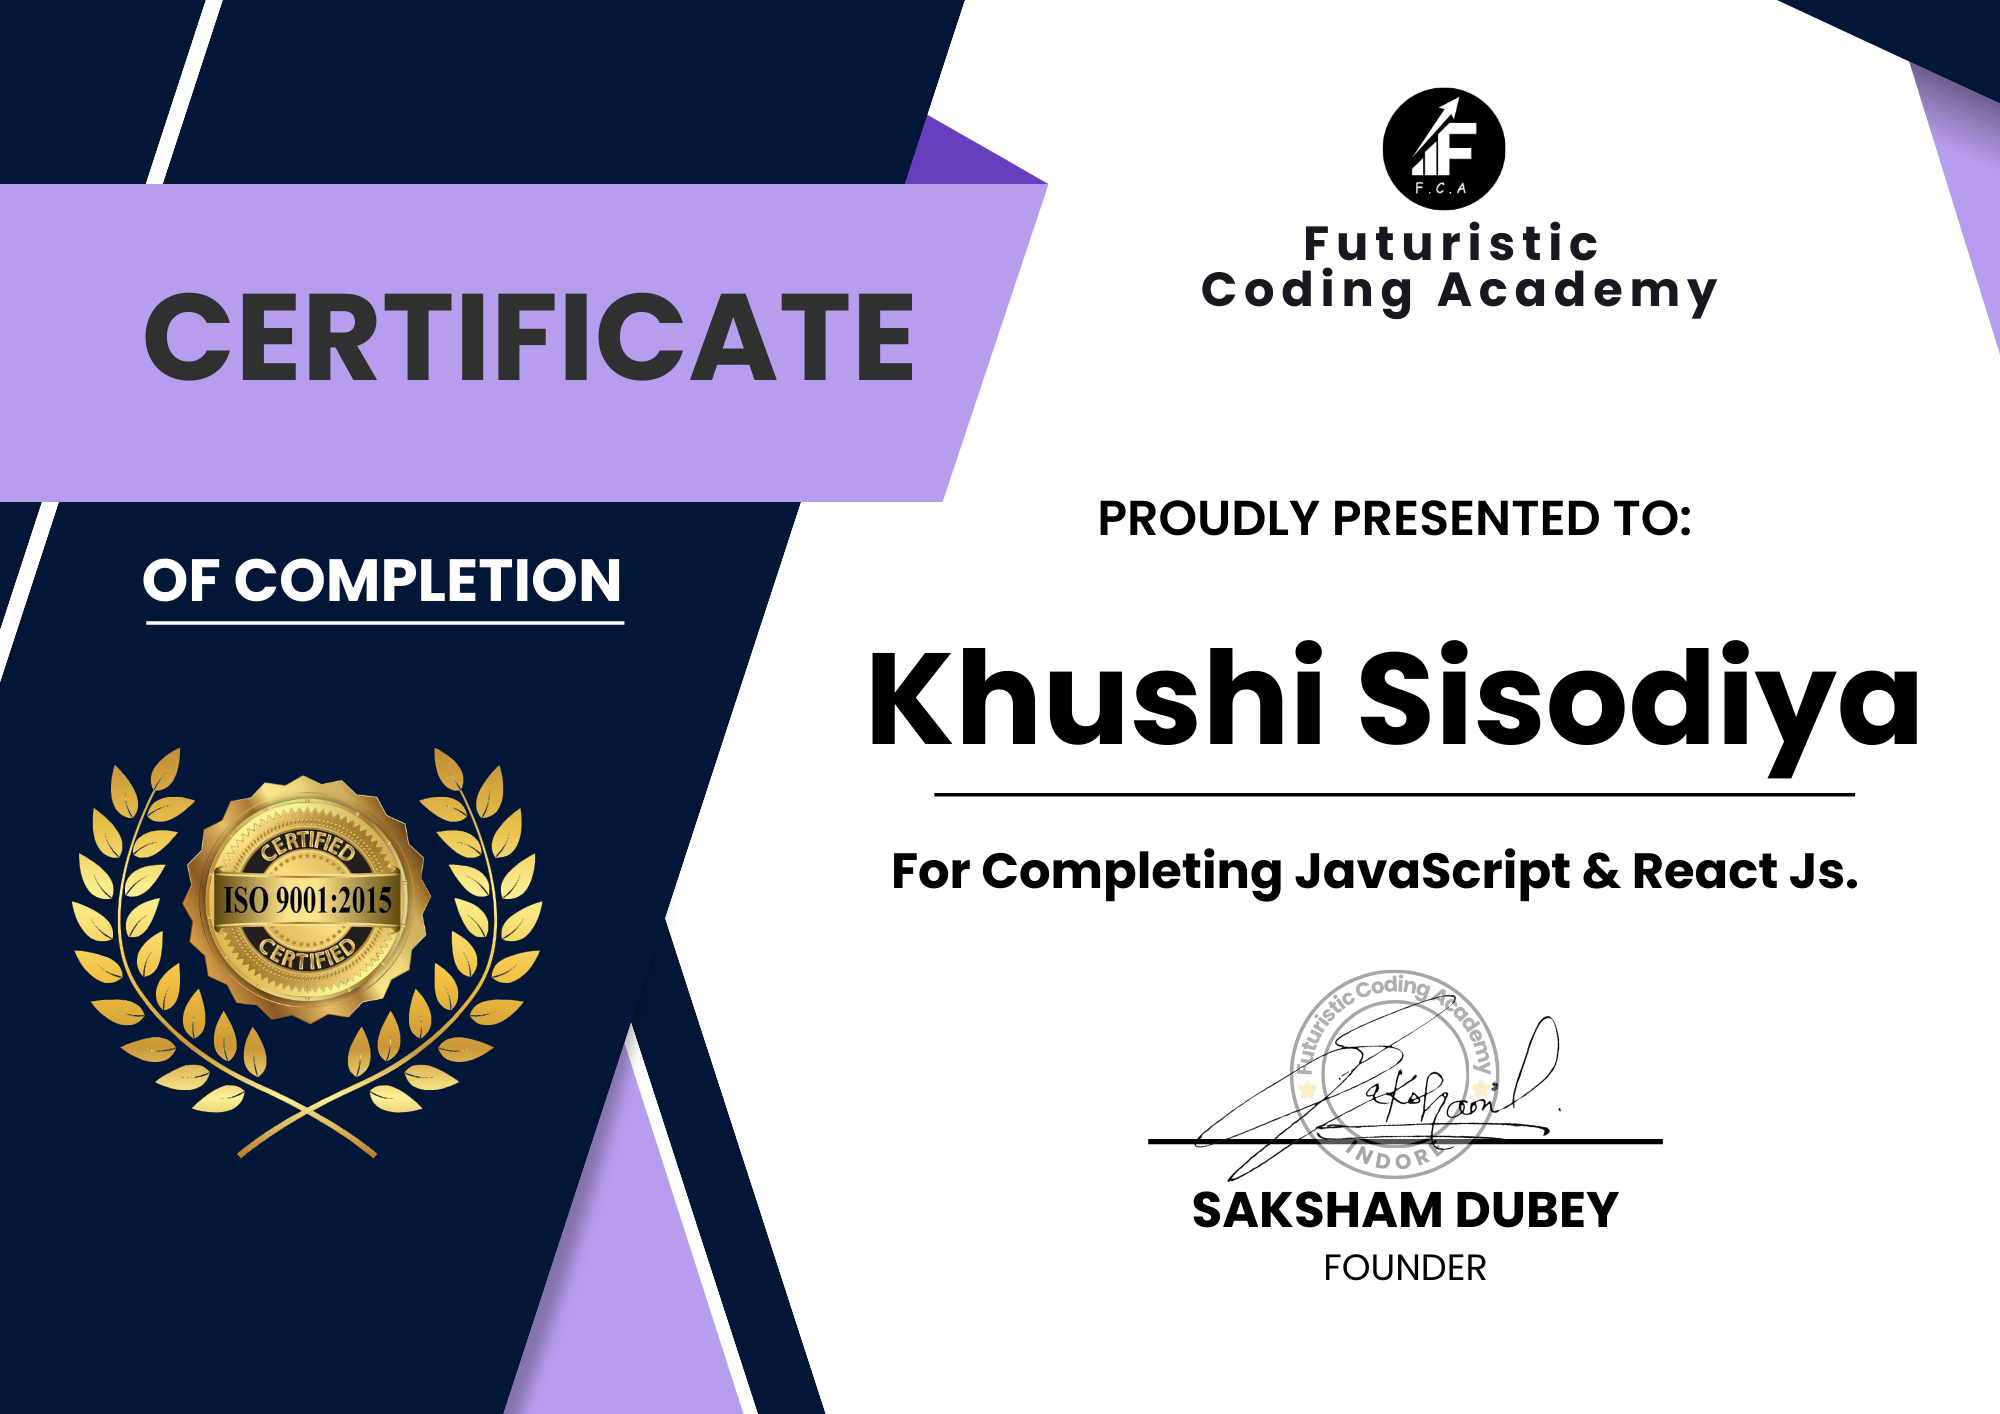
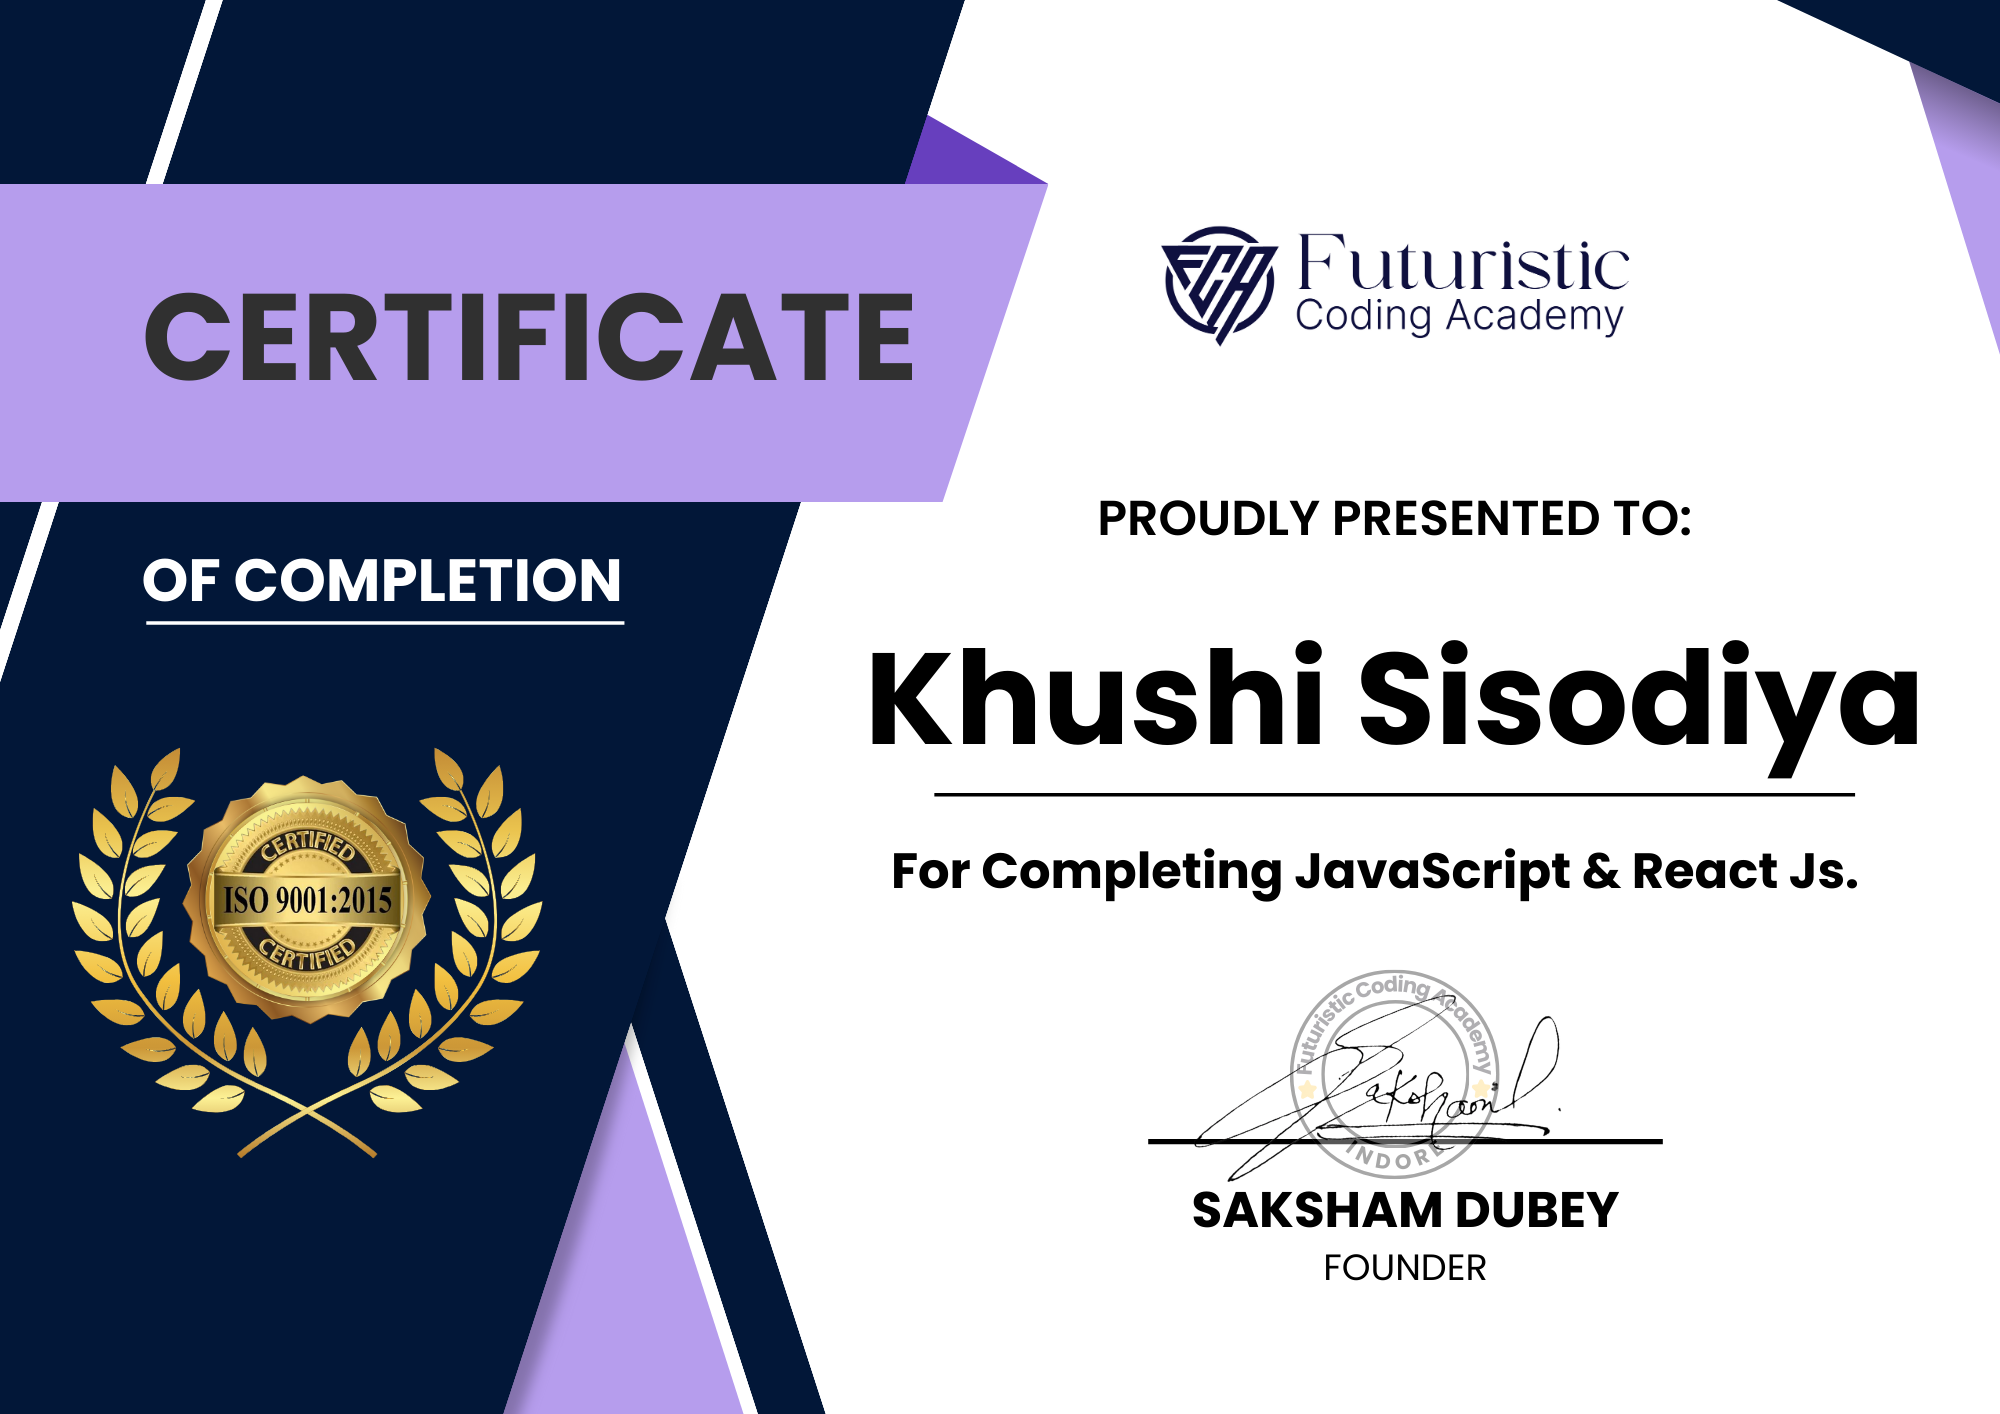
timeinglogo-update

Changed region(s): [[0.558, 0.0622, 0.868, 0.2489]]

diff --git a/src/App.jsx b/src/App.jsx
@@ -11,9 +11,9 @@ function App() {
     <>
       <div className="p-12 bg-[#0F103F] h-auto">
         <div className="">
-          <h4 className="text-lg text-center text-zinc-300 md:text-3xl font-semibold">
-            Futuristic Coding Academy
-          </h4>
+          <div className="flex md:justify-start justify-center">
+            <img className="md:h-16 h-12" src="LOGO Blue white.svg" alt="" />
+          </div>
 
           <h1 className="leading-7 md:p-12 text-center p-2 pt-5 text-transparent bg-clip-text bg-gradient-to-r from-[#9DC6F9] to-[#9A7FF7] md:text-5xl text-2xl font-bold">
             <img
@@ -23,7 +23,7 @@ function App() {
             />
             MASTER THE ART OF JAVASCRIPT AND REACT JS BOOTCAMP IN 45 DAYS
             <img
-              className="animate__animated animate__infinite	infinite  animate__pulse animate__slow h-12 md:h-24 absolute top-[24.5%] md:top-44 right-14"
+              className="animate__animated animate__infinite	infinite  animate__pulse animate__slow h-12 md:h-24 absolute top-[28.5%] md:top-48 right-14"
               src="react.png"
               alt="reactjs_logo"
             />
@@ -31,7 +31,7 @@ function App() {
           <p className="text-center text-zinc-300 text-sm md:text-lg md:px-32 md:pt-0 pt-3">
             45-day offline classes, Monday to Friday. Test on Saturday and Doubt
             solving session on Sunday. Enroll Now! Rated 4.7⭐ by 50+ Students
-            in the last Batch. New Batch starts from 15 May🥳.{" "}
+            in the last Batch. New Batch starts from 20 May🥳.{" "}
           </p>
           <div className="flex flex-wrap-reverse justify-center md:pt-12">
             {/* <div className="pt-12 md:w-[60vw] ">
@@ -49,16 +49,16 @@ function App() {
                 ☑ 45-Days offline classes
               </div>
               <div className="h-12 hover:scale-105 hover:drop-shadow-lg ease-in duration-300 md:p-7  bg-[#080820] text-white text-xs md:text-lg font-bold  text-center flex justify-center items-center rounded-xl p-2">
-                📽 Recorded Lectures
+                ⌚ Timing 4:00 PM
               </div>
               <div className="h-12 hover:scale-105 hover:drop-shadow-lg ease-in duration-300 md:p-7 bg-[#080820] text-white text-xs md:text-lg font-bold  text-center flex justify-center items-center rounded-xl p-2">
-                🧑💻 500+ Students get internship
+                🧑💻 50+ Students get internship
               </div>
               <div className="h-12 hover:scale-105 hover:drop-shadow-lg ease-in duration-300 md:p-7 bg-[#B254FF] text-white text-xs md:text-lg font-bold  text-center flex justify-center items-center rounded-xl p-2">
                 💱 Course Language Hindi
               </div>
               <div className="h-12 hover:scale-105 hover:drop-shadow-lg ease-in duration-300 md:p-7  bg-[#B254FF] text-white md:text-lg font-bold  bg-gradient-to-r from-[#9DC6F9] to-[#9A7FF7] text-xs text-center flex justify-center items-center rounded-xl p-2">
-                Class Date 📆 15 May - 30 June, 2024
+                Class Date 📆 20 May - 5 June, 2024
               </div>
             </div>
           </div>
